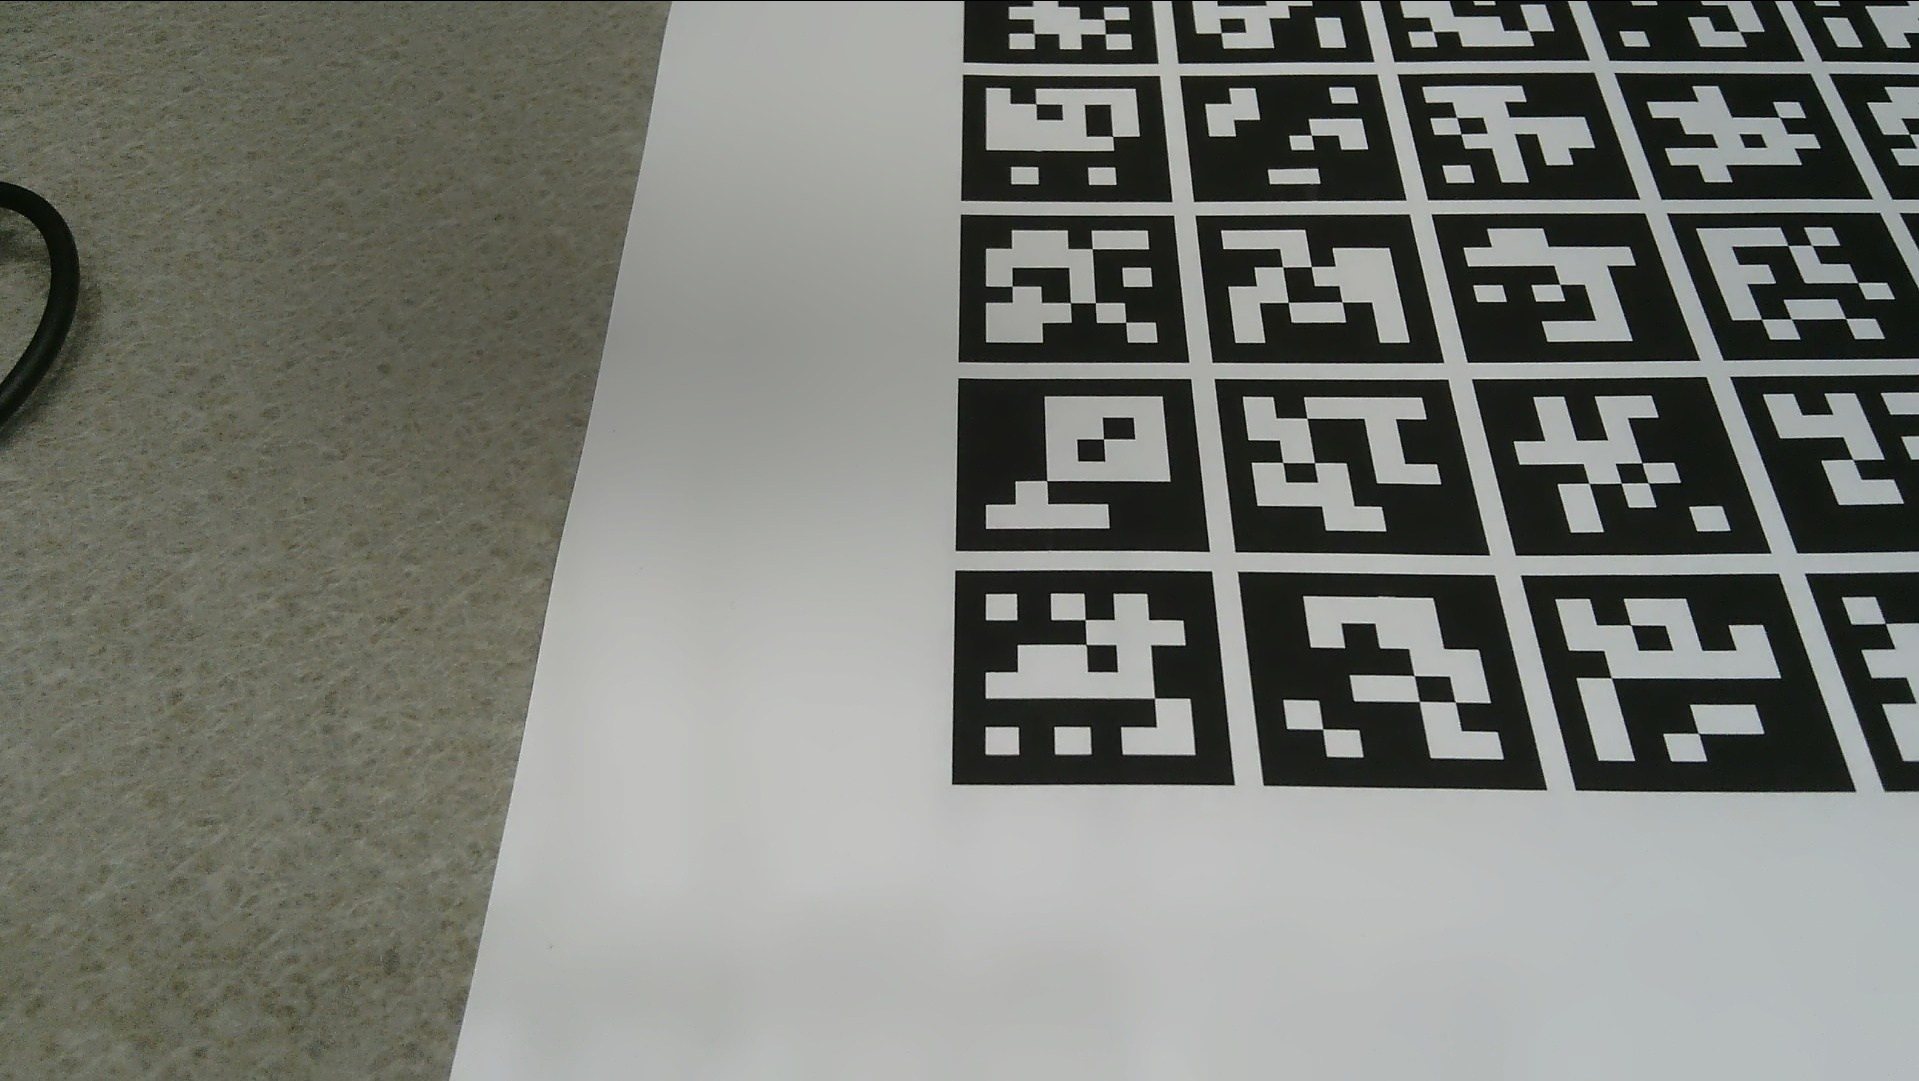
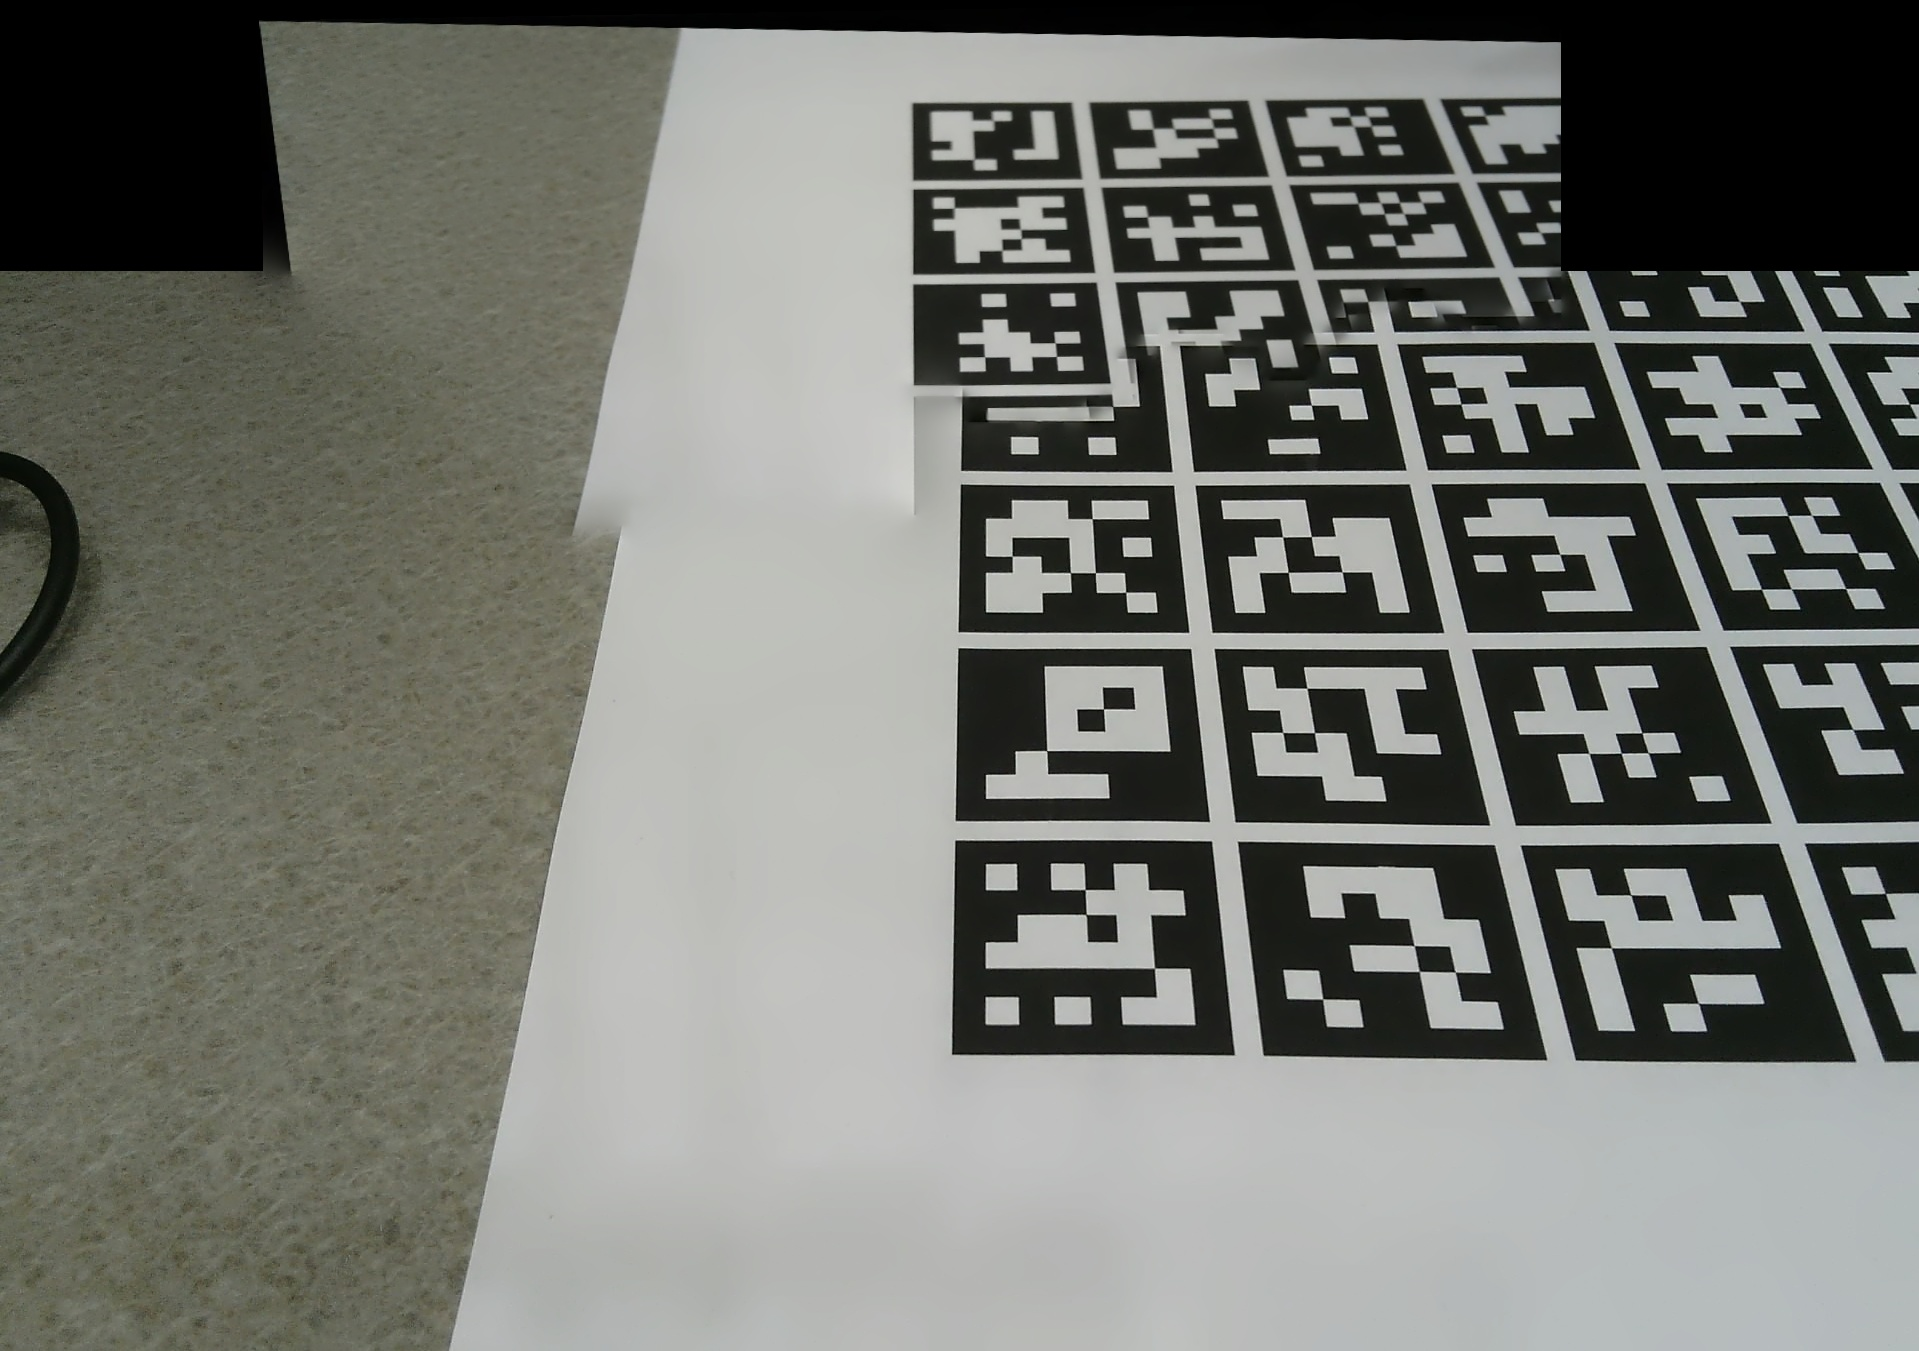
MPU Test code

diff --git a/software/testing/CV/stitch/marker_based_stitcher/marker_stitch_alt.py b/software/testing/CV/stitch/marker_based_stitcher/marker_stitch_alt.py
@@ -381,7 +381,7 @@ def stitch_prepare(base, new, single_marker=False, debug=False):
     # Translation correction matrix
     translate = np.array([[1, 0, -tx],
               [0, 1, -ty], 
-              [0, 0, 1]])
+              [0, 0, 1]], dtype="float64")
     
     # Apply translation
     M = np.matmul(h, translate)
@@ -416,9 +416,9 @@ def main():
                 base = cv2.imread(dir + files[0])
             else: 
                 # use the combined image
-                base = cv2.imread(dir + "result.jpg") 
+                base = cv2.imread("./result.jpg") 
 
-            
+
             # image to be added is the next image in the list
             new = cv2.imread(dir + files[i+1])
 
@@ -432,7 +432,7 @@ def main():
             # print(root_dir + '\marker_based_stitcher\raw\3\custom_stitcher.py')
 
             # Stitch them
-            subprocess.Popen(['py', r'C:\Users\Victor Zhang\Documents\GitHub\OS-Handheld-CNC\software\testing\CV\stitch\marker_based_stitcher\raw\3\custom_stitch.py', r'C:\Users\Victor Zhang\Documents\GitHub\OS-Handheld-CNC\software\testing\CV\stitch\marker_based_stitcher\raw\3\base.jpg', r'C:\Users\Victor Zhang\Documents\GitHub\OS-Handheld-CNC\software\testing\CV\stitch\marker_based_stitcher\raw\3\new.jpg', '--work_megapix', '0.6', '--features', 'orb', '--matcher', 'affine', '--estimator', 'affine', '--match_conf', '0.2', '--conf_thresh', '0.3', '--ba', 'affine', '--ba_refine_mask', 'xxxxx', '--wave_correct', 'no', '--warp', 'affine'])
+            subprocess.Popen(['py', r'C:\Users\victo\Documents\GitHub\OS-Handheld-CNC\software\testing\CV\stitch\marker_based_stitcher\raw\3\custom_stitch.py', r'C:\Users\victo\Documents\GitHub\OS-Handheld-CNC\software\testing\CV\stitch\marker_based_stitcher\raw\3\base.jpg', r'C:\Users\victo\Documents\GitHub\OS-Handheld-CNC\software\testing\CV\stitch\marker_based_stitcher\raw\3\new.jpg', '--work_megapix', '0.6', '--features', 'orb', '--matcher', 'affine', '--estimator', 'affine', '--match_conf', '0.2', '--conf_thresh', '0.3', '--ba', 'affine', '--ba_refine_mask', 'xxxxx', '--wave_correct', 'no', '--warp', 'affine'])
 
 
     # cap = cv2.VideoCapture(0)
